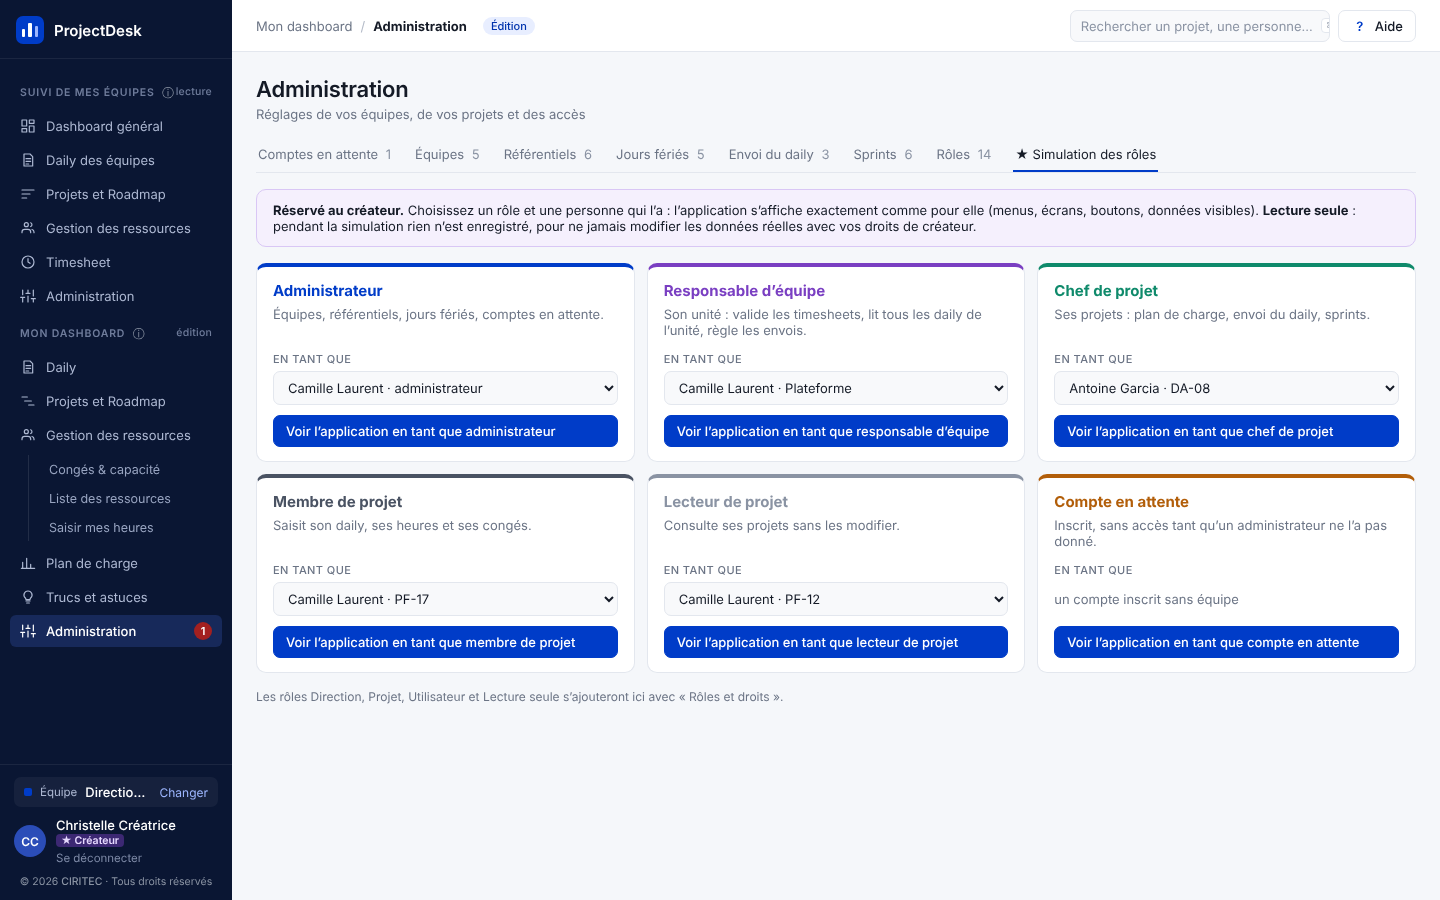
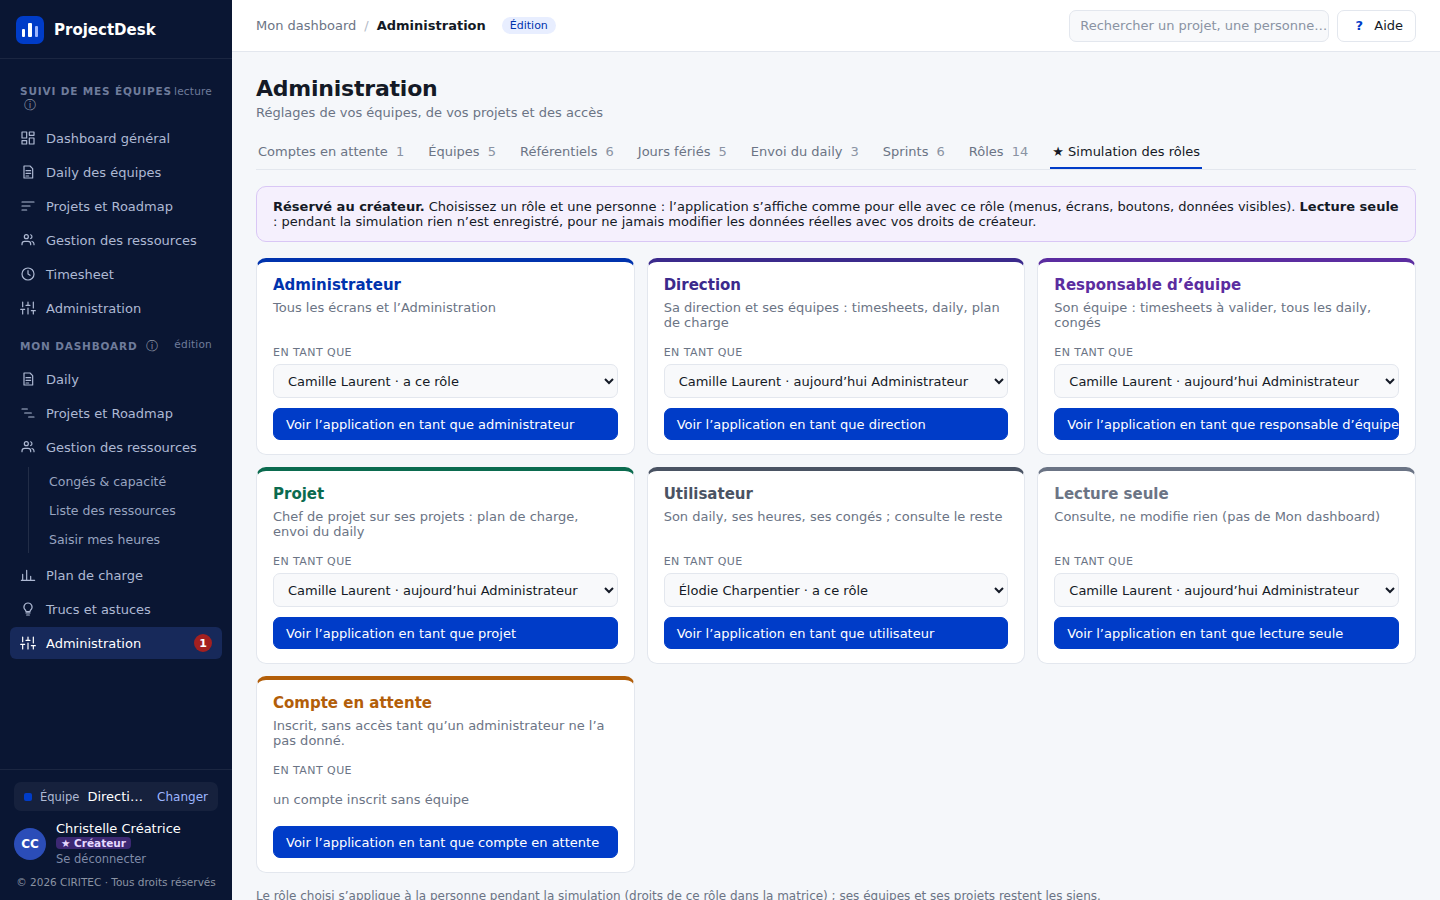
2.22 — Simulation des rôles alignée sur les 6 rôles d'accès ; Timesheet de Suivi réservé (matrice)
- Cartes Administrateur, Direction, Responsable d'équipe, Projet, Utilisateur, Lecture seule
  + Compte en attente ; le rôle de la carte s'applique pendant la simulation (monRole).
- Matrice (donnée) : suivi_timesheet « Non » pour Utilisateur et Lecture seule.

Claude-Session: https://claude.ai/code/session_0187v8SY8uiT6dnWqjjqJYb6

diff --git a/app/js/simulation.js b/app/js/simulation.js
@@ -15,31 +15,27 @@
 'use strict';
 
 const Simulation = {
-  /* Rôles proposés : ceux de l'onglet ★ Rôles (Roles.LISTE, roles.js), sauf Créateur (c'est le rôle
-     de départ). Les rôles de « Rôles et droits » (Direction, Projet, Utilisateur, Lecture seule)
-     s'ajouteront dans Roles.LISTE. */
-  get ROLES() { return Roles.LISTE.filter(role => role.cle !== 'createur'); },
+  /* Rôles proposés : les 6 rôles d'accès d'Administration › Rôles et de la matrice des droits (ROLES_CHOISISSABLES,
+     ROLES_ACCES, config.js), puis « Compte en attente » (compte inscrit sans équipe) — porteur 2026-10-22,
+     maquette docs/maquettes/simulation-six-roles/. Le Créateur n'y figure pas (c'est le rôle de départ). */
+  get ROLES() {
+    return [...ROLES_CHOISISSABLES.map(cle => ({ cle, libelle: ROLES_ACCES[cle].libelle, description: ROLES_ACCES[cle].description,
+      couleur: ROLES_ACCES[cle].texte })),
+    { cle: 'sansEquipe', libelle: 'Compte en attente', description: 'Inscrit, sans accès tant qu’un administrateur ne l’a pas donné.',
+      couleur: COULEURS.orange }];
+  },
 
   // Onglet réservé au créateur (masqué pendant une simulation : le bandeau permet d'en changer ou d'en sortir)
   estDisponible: () => etat.estCreateur,
 
-  /* Personnes qui ont un rôle (fiches présentes aujourd'hui), avec un libellé « Nom · précision » */
+  /* Personnes proposées pour un rôle : toutes les fiches actives reliées à un compte, celles qui ont déjà
+     ce rôle en tête (« · a ce rôle »), puis les autres avec leur rôle actuel. Le rôle de la carte leur est
+     appliqué le temps de la simulation (monRole) ; leurs équipes et leurs projets restent les leurs. */
   personnes(cle) {
-    const affectees = role => etat.d.affectations.filter(a => a.role === role && estActive(a.ressourceId))
-      .map(a => ({ r: ressource(a.ressourceId), precision: (projet(a.projetId) || {}).code }));
-    const listes = {
-      admin: () => ressourcesActives().filter(r => r.userId && etat.d.administrateurs.some(a => a.userId === r.userId)).map(r => ({ r, precision: 'administrateur' })),
-      responsable: () => etat.d.equipes.flatMap(e => responsablesDe(e.id).filter(r => estActive(r.id)).map(r => ({ r, precision: e.nom }))),
-      chef: () => affectees(ROLES_PROJET.CHEF),
-      membre: () => affectees(ROLES_PROJET.MEMBRE),
-      lecteur: () => affectees(ROLES_PROJET.LECTEUR),
-      sansEquipe: () => []
-    };
-    // Une ligne par personne (la première précision trouvée), triées par nom
-    const vues = new Map();
-    listes[cle]().filter(x => x.r).forEach(x => { if (!vues.has(x.r.id)) vues.set(x.r.id, x); });
-    return [...vues.values()].sort((a, b) => a.r.nom.localeCompare(b.r.nom))
-      .map(x => ({ valeur: x.r.id, libelle: `${x.r.nom}${x.precision ? ' · ' + x.precision : ''}` }));
+    const actuel = r => Roles.roleChoisi(r);
+    return ressourcesActives().filter(r => r.userId)
+      .sort((a, b) => (actuel(b) === cle) - (actuel(a) === cle) || a.nom.localeCompare(b.nom))
+      .map(r => ({ valeur: r.id, libelle: `${r.nom} · ${actuel(r) === cle ? 'a ce rôle' : 'aujourd’hui ' + ROLES_ACCES[actuel(r)].libelle}` }));
   },
 
   /* Démarre (ou change) la simulation : identité réelle mise de côté, identité simulée posée.
@@ -106,11 +102,12 @@ const Simulation = {
           ${sansPersonne || personnes.length ? '' : 'disabled'}>Voir l’application en tant que ${esc(role.libelle.toLowerCase())}</button></div>`;
     }).join('');
     return `<div class="carte encart-createur">
-        <b>Réservé au créateur.</b> Choisissez un rôle et une personne qui l’a : l’application s’affiche exactement comme pour elle
+        <b>Réservé au créateur.</b> Choisissez un rôle et une personne : l’application s’affiche comme pour elle avec ce rôle
         (menus, écrans, boutons, données visibles). <b>Lecture seule</b> : pendant la simulation rien n’est enregistré, pour ne jamais
         modifier les données réelles avec vos droits de créateur.</div>
       <div class="grille-simulation">${cartes}</div>
-      <div class="discret texte-12">Les rôles Direction, Projet, Utilisateur et Lecture seule s’ajouteront ici avec « Rôles et droits ».</div>`;
+      <div class="discret texte-12">Le rôle choisi s’applique à la personne pendant la simulation (droits de ce rôle dans la matrice) ;
+        ses équipes et ses projets restent les siens.</div>`;
   }
 };
 

diff --git a/app/index.html b/app/index.html
@@ -11,7 +11,7 @@
 <link href="https://fonts.googleapis.com/css2?family=IBM+Plex+Sans:wght@400;500;600;700&family=IBM+Plex+Mono:wght@400;500&display=swap" rel="stylesheet">
 <!-- ?v= : version des fichiers (= version du DAT), à changer à chaque livraison : force le navigateur
      à recharger le code au lieu de réutiliser une ancienne copie en mémoire. -->
-<link rel="stylesheet" href="css/theme.css?v=2.21">
+<link rel="stylesheet" href="css/theme.css?v=2.22">
 </head>
 <body>
   <!-- Toute l'interface est dessinée dans #app par js/coquille.js et js/ecrans/*.js -->
@@ -19,33 +19,33 @@
   <div id="notification" class="notification" role="status"></div>
 
   <!-- Ordre de chargement : configuration, outils, état, puis écrans (qui s'enregistrent dans Ecrans) -->
-  <script src="js/config.js?v=2.21"></script>
-  <script src="js/api.js?v=2.21"></script>
-  <script src="js/calculs.js?v=2.21"></script>
-  <script src="js/etat.js?v=2.21"></script>
-  <script src="js/composants.js?v=2.21"></script>
-  <script src="js/coquille.js?v=2.21"></script>
-  <script src="js/panneau-projet.js?v=2.21"></script>
-  <script src="js/modale.js?v=2.21"></script>
-  <script src="js/excel.js?v=2.21"></script>
-  <script src="js/roles.js?v=2.21"></script>
-  <script src="js/simulation.js?v=2.21"></script>
-  <script src="js/ecrans/connexion.js?v=2.21"></script>
-  <script src="js/ecrans/choix-equipe.js?v=2.21"></script>
-  <script src="js/ecrans/dashboard.js?v=2.21"></script>
-  <script src="js/ecrans/projets.js?v=2.21"></script>
-  <script src="js/ecrans/ressources.js?v=2.21"></script>
-  <script src="js/ecrans/administration.js?v=2.21"></script>
-  <script src="js/ecrans/timesheet.js?v=2.21"></script>
-  <script src="js/ecrans/daily-equipes.js?v=2.21"></script>
-  <script src="js/ecrans/daily.js?v=2.21"></script>
-  <script src="js/ecrans/mes-projets.js?v=2.21"></script>
-  <script src="js/ecrans/conges.js?v=2.21"></script>
-  <script src="js/ecrans/capacite.js?v=2.21"></script>
-  <script src="js/ecrans/liste-ressources.js?v=2.21"></script>
-  <script src="js/ecrans/mon-timesheet.js?v=2.21"></script>
-  <script src="js/ecrans/previsionnel.js?v=2.21"></script>
-  <script src="js/ecrans/mon-admin.js?v=2.21"></script>
-  <script src="js/ecrans/astuces.js?v=2.21"></script>
+  <script src="js/config.js?v=2.22"></script>
+  <script src="js/api.js?v=2.22"></script>
+  <script src="js/calculs.js?v=2.22"></script>
+  <script src="js/etat.js?v=2.22"></script>
+  <script src="js/composants.js?v=2.22"></script>
+  <script src="js/coquille.js?v=2.22"></script>
+  <script src="js/panneau-projet.js?v=2.22"></script>
+  <script src="js/modale.js?v=2.22"></script>
+  <script src="js/excel.js?v=2.22"></script>
+  <script src="js/roles.js?v=2.22"></script>
+  <script src="js/simulation.js?v=2.22"></script>
+  <script src="js/ecrans/connexion.js?v=2.22"></script>
+  <script src="js/ecrans/choix-equipe.js?v=2.22"></script>
+  <script src="js/ecrans/dashboard.js?v=2.22"></script>
+  <script src="js/ecrans/projets.js?v=2.22"></script>
+  <script src="js/ecrans/ressources.js?v=2.22"></script>
+  <script src="js/ecrans/administration.js?v=2.22"></script>
+  <script src="js/ecrans/timesheet.js?v=2.22"></script>
+  <script src="js/ecrans/daily-equipes.js?v=2.22"></script>
+  <script src="js/ecrans/daily.js?v=2.22"></script>
+  <script src="js/ecrans/mes-projets.js?v=2.22"></script>
+  <script src="js/ecrans/conges.js?v=2.22"></script>
+  <script src="js/ecrans/capacite.js?v=2.22"></script>
+  <script src="js/ecrans/liste-ressources.js?v=2.22"></script>
+  <script src="js/ecrans/mon-timesheet.js?v=2.22"></script>
+  <script src="js/ecrans/previsionnel.js?v=2.22"></script>
+  <script src="js/ecrans/mon-admin.js?v=2.22"></script>
+  <script src="js/ecrans/astuces.js?v=2.22"></script>
 </body>
 </html>

diff --git a/tests/parcours.js b/tests/parcours.js
@@ -858,9 +858,13 @@ const verifier = (nom, condition, detail = '') => { resultats.push({ nom, ok: !!
     // Simulation des rôles : en tant que Thomas (membre), lecture seule, changement de rôle, retour
     await aller('monAdmin'); await page.click('[data-action="ongletMonAdmin"][data-id="simulation"]'); await page.waitForTimeout(200);
     await capture('28-simulation-roles');
-    await page.evaluate(() => { const liste = document.querySelector('select[name="personne-membre"]');
+    // Cartes = les 6 rôles d'accès de la matrice + Compte en attente (2026-10-22)
+    const cartesSimulation = await page.$$eval('.grille-simulation > .carte b', b => b.map(x => x.textContent.trim()));
+    verifier('Simulation : une carte par rôle d’accès (Administrateur … Lecture seule) et Compte en attente',
+      cartesSimulation.join('|') === 'Administrateur|Direction|Responsable d’équipe|Projet|Utilisateur|Lecture seule|Compte en attente', cartesSimulation.join(', '));
+    await page.evaluate(() => { const liste = document.querySelector('select[name="personne-utilisateur"]');
       liste.value = [...liste.options].find(o => o.textContent.startsWith('Thomas Bernard')).value; });
-    await page.click('[data-action="demarrerSimulation"][data-role="membre"]'); await page.waitForTimeout(300);
+    await page.click('[data-action="demarrerSimulation"][data-role="utilisateur"]'); await page.waitForTimeout(300);
     verifier('Simulation : vu comme Thomas (membre), sans droits d’administrateur, bandeau affiché', await page.evaluate(() =>
       !!document.querySelector('.bandeau-simulation') && maRessource().nom === 'Thomas Bernard' && !etat.estAdmin && !etat.estCreateur
       && !document.querySelector('[data-ecran="previsionnel"]') && document.querySelector('.moi-nom').textContent === 'Thomas Bernard'));

diff --git a/app/js/etat.js b/app/js/etat.js
@@ -274,8 +274,9 @@ const peutAffecterSur = projet => travailleSurLeProjet(projet) && aDroit('affect
 const peutModifierFiche = r => (estMembreDe(r.equipeId) || etat.estAdmin) && aDroit('fiches_ressources');
 
 /* ---------- Matrice des droits (migration 031 ; même règle que mon_role / niveau_droit en base) ---------- */
-// Mon rôle d'accès : déclaré sur ma fiche, sinon administrateur, responsable, utilisateur (la simulation est prise en compte)
+// Mon rôle d'accès : celui de la simulation en cours, sinon déclaré sur ma fiche, sinon administrateur, responsable, utilisateur
 function monRole() {
+  if (etat.simulation && ROLES_ACCES[etat.simulation.cle]) return etat.simulation.cle;   // rôle de la carte de simulation
   const moi = maRessource();
   if (moi && roleDeclare(moi)) return roleDeclare(moi);
   if (etat.estAdmin) return 'admin';

diff --git a/docs/DAT.md b/docs/DAT.md
@@ -136,6 +136,7 @@
 | 2.19    | 2026-10-18 | **Matrice des droits par menu** (porteur : « suivi de mes équipes : Dashboard, daily, projet et congés, timesheet… », puis option **B** : un droit par menu ; maquette `matrice-par-menu/`) : colonnes **Menu** et **Ce qu’on peut y faire**, lignes dans l'ordre de la barre latérale, section par section ; Trucs et astuces affiché « Tous » (`MENUS_SANS_DROIT`). Suivi de mes équipes : un droit par menu — `suivi_dashboard`, `daily_equipes`, `suivi_projets`, `suivi_ressources`, `suivi_timesheet` (+ `valider_timesheet`), `suivi_administration` — qui règle l'affichage du menu (`MENU_GENERAL`, coquille.js) ; l'ancien droit commun `general` n'est plus affiché. **Migration 037 à appliquer** (connexion Neon à ré-autoriser) : en attendant, les nouveaux droits reprennent le niveau de `general` (`repli`, `niveauDuRole`) et leurs cases sont figées. Écran d'arrivée : le daily si le dashboard est « Non » (`ecranAccueil`). 137 contrôles (§ 3.2, § 4, § 5) |
 | 2.20    | 2026-10-18 | **Migrations 035, 036 et 037 appliquées** sur la branche production de Neon (accord du porteur ; sauvegarde « sauvegarde-avant-035-037-2026-10-18 », après suppression de la branche d'essai `essai-migration-015`, limite de 10 branches atteinte) : valeur `methode / test_learn` (Test & Learn proposé à la création d'un projet), colonne `ressources.date_naissance` (champ Date de naissance de la fiche et colonne Anniversaire affichés), droits `suivi_dashboard`, `suivi_projets`, `suivi_ressources`, `suivi_timesheet`, `suivi_administration` pour les 6 rôles au niveau de `general` (cases de la matrice modifiables). Comptages identiques avant / après hormis `valeurs_referentiel` 29 → 30 et `droits_roles` 78 → 108 ; cache de la Data API rechargé (§ 10). Aucune autre donnée modifiée (règle n°8) ; aucun code modifié hormis `?v=` ; commentaires du repli des droits par menu mis à jour (`niveauDuRole`, `celluleNiveau`, `DROITS` : filet de sécurité si un droit manque en base). Maquette `matrice-par-onglet/` (un droit par onglet de chaque page) soumise au porteur, non codée (§ 4, § 5) |
 | 2.21    | 2026-10-18 | **Matrice des droits par onglet** (porteur : « attention aux onglets dans chaque page … exemple dans Daily, il y a un onglet fil et un onglet synthèse » ; maquette `matrice-par-onglet/` validée « ok ») : sous chaque menu, une ligne « ↳ Onglet « … » » par onglet, réglable Oui / Lecture / Non (`DROITS`, propriétés `onglet`, `ecran`, `id` ; `Roles.lignesSection`) ; 20 nouveaux droits `onglet_…` (Daily des équipes, Gestion des ressources, Suivi › Administration, Congés & capacité, Plan de charge, Mon dashboard › Administration, Trucs et astuces) ; Comptes en attente, Rôles et Nommer un administrateur reprennent leurs droits existants. Onglet masqué si « Non », menu masqué si tous ses onglets le sont (`ongletPermis`, `ecranOuvert`, `menuOuvert`, `C.aucunOnglet`). Daily des équipes : `voitSynthese` remplacé par le droit `onglet_daily_synthese`. Jours fériés : consultation sans le droit « administration » ; sous-titre de Mon dashboard › Administration simplifié. **Migration 038 à appliquer** (additive : contrainte élargie + 120 lignes `droits_roles`, chacune au niveau de son droit de départ) — d'ici là, chaque onglet reprend le niveau de son droit de départ (`repli`) et sa case est figée. 138 contrôles (§ 3.2, § 4, § 5.2) |
+| 2.22    | 2026-10-22 | **Simulation des rôles alignée sur les 6 rôles d'accès** (porteur : « je n'ai pas les mêmes rôles » ; maquette `simulation-six-roles/` validée « ok ») : cartes Administrateur, Direction, Responsable d'équipe, Projet, Utilisateur, Lecture seule (libellés, descriptions et couleurs de `ROLES_ACCES`) + Compte en attente ; « En tant que » propose toutes les personnes reliées à un compte (celles qui ont le rôle en tête) et le rôle de la carte s'applique le temps de la simulation (`monRole`), ses équipes et projets restant les siens. **Matrice (donnée, pas de code)** : à la demande du porteur, droit `suivi_timesheet` passé à « Non » pour Utilisateur et Lecture seule (menu Timesheet de Suivi de mes équipes réservé à Administrateur, Direction, Responsable d'équipe, Projet). 139 contrôles (§ 2, § 3.3) |
 | 1.44    | 2026-09-27 | Calcul type Scrum : formule déplacée dans une pop-in (bouton « Comment est-ce calculé ? » en haut à droite), avec un exemple chiffré sur CDO (membres, jours ouvrés, absences, cérémonies, focus) (§ 2.1, § 3.3) |
 
 ---
@@ -219,7 +220,7 @@ Principes :
 | `app/js/panneau-projet.js` | Panneau latéral « Projet » (détail/édition, dont la **méthode**) et « Nouveau projet » (code, nom, description, chef, **méthode obligatoire** : une carte par valeur du référentiel `methode`, description `DESCRIPTIONS_METHODES` de `config.js`) |
 | `app/js/modale.js` | Fenêtres : méthode de calcul Scrum, affectations, fiche ressource (dont dates d’arrivée et de départ facultatives), équipe (membres, invitations), objectifs, mise en place Power Automate, **export du daily en Excel** |
 | `app/js/roles.js` | **Rôles** (administrateurs) : rôle d'accès de chaque personne choisi dans une liste (`affecter_role`), filtres ; liste des rôles (`Roles.LISTE`), rôles d'une fiche (`dePersonne`), personnes par rôle (`parRole`, dont créateur et administrateurs sans fiche, comptes en attente), onglet d'Administration « ★ Rôles » |
-| `app/js/simulation.js` | **Simulation des rôles** (créateur) : rôles proposés (ceux de `Roles.LISTE`, hors Créateur) et personnes qui les ont (`Simulation.personnes`), identité simulée posée / restaurée (`etat.simulation`, `etat.reel`), bandeau, onglet d'Administration ; lecture seule garantie par `Api` (`refuserEnSimulation`) |
+| `app/js/simulation.js` | **Simulation des rôles** (créateur) : rôles proposés : les 6 rôles d'accès (`ROLES_CHOISISSABLES`, `ROLES_ACCES`) + Compte en attente (2.22) ; personnes reliées à un compte, celles qui ont le rôle en tête (`Simulation.personnes`) ; le rôle de la carte s'applique pendant la simulation (`monRole`), identité simulée posée / restaurée (`etat.simulation`, `etat.reel`), bandeau, onglet d'Administration ; lecture seule garantie par `Api` (`refuserEnSimulation`) |
 | `app/js/excel.js` | Fabrication d'un fichier **.xlsx** dans le navigateur, sans bibliothèque : XML Office Open (textes en ligne, jamais interprétés comme formules), en-tête figée, filtres, largeurs, styles fixes ; archive ZIP « stockée » avec CRC-32 ; téléchargement (`Excel.telecharger`) |
 | `app/js/ecrans/*.js` | Un fichier par écran (§ 3) |
 | `app/css/theme.css` | Jetons de la maquette (couleurs, typographie) et composants ; section **Utilitaires** : mises en forme réutilisées (texte, mise en page, encarts, champs) — une mise en forme employée 3 fois ou plus y devient une classe |
